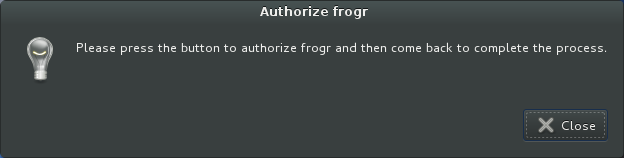
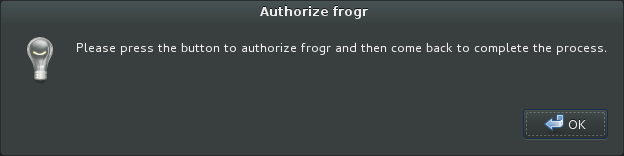
Restore the OK button for the first authorization dialog.
I don't think the 'Close' button is more clear than the 'OK' button
in this specific case ('Close' suggests the process is over)

diff --git a/src/frogr-auth-dialog.c b/src/frogr-auth-dialog.c
@@ -48,7 +48,7 @@ _ask_for_authorization (GtkWindow *parent)
   dialog = gtk_message_dialog_new (parent,
                                    GTK_DIALOG_MODAL | GTK_DIALOG_DESTROY_WITH_PARENT,
                                    GTK_MESSAGE_INFO,
-                                   GTK_BUTTONS_CLOSE,
+                                   GTK_BUTTONS_OK,
                                    _("Please press the button to authorize %s "
                                      "and then come back to complete the process."),
                                    APP_SHORTNAME);
